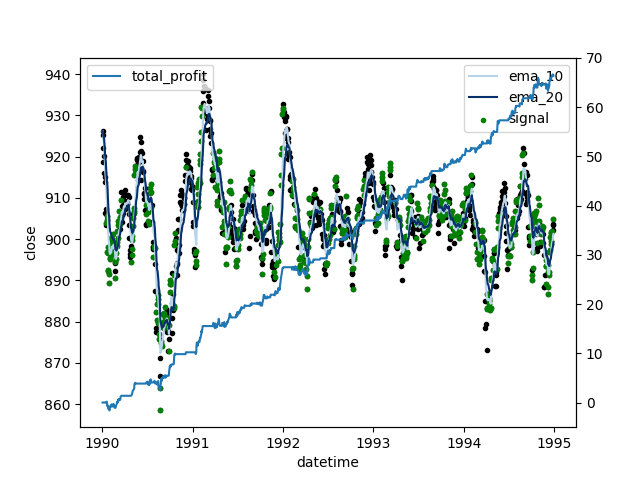
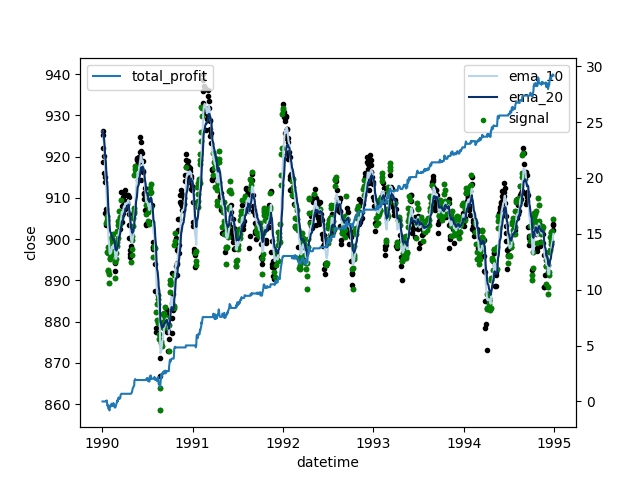
scalp strategy

diff --git a/ms/strategy.py b/ms/strategy.py
@@ -11,12 +11,12 @@ class Strategy:
         
 
 
-    def optimize(self, method='nelder-mead', dim=1, options=None, stop_ratio=0.01, N=10, search_span=5):
+    def optimize(self, method='nelder-mead', dim=1, options=None, stop_ratio=0.01, N=10, search_span=20):
         if options is None:
             options = {'maxiter': 1000, 'maxfev': 2000}
 
         def f(params):
-            return -self.calculate_profit(self.strategy(params=params))
+            return -self.calculate_profit_scalp(self.strategy(params=params))
 
         
         best_best_result=None
@@ -32,8 +32,8 @@ class Strategy:
                 print("params:", res.x)
                 print("profit:", -res.fun)
             
-            print(" best params:", best_res.x)
-            print(" best profit:", -best_res.fun)
+            print("    best params:", best_res.x)
+            print("    best profit:", -best_res.fun)
             
             if best_best_result is None: # is the best result is None set current best result as the best result 
                 best_best_result=best_res
@@ -55,12 +55,15 @@ class Strategy:
         if save:
             for key,value in kwargs.items():
                 self.data.df.at[index, key] = value
+
+
     def __save_prep(self,save  ):
         if save:
             self.data.df[f'total_profit']=0
             self.data.df[f'position']=''
             self.data.df[f'shares']=0
             self.data.df[f'capital']=0
+        
 
         
     def calculate_profit(self,sig,price_ser=None,save  = False ):
@@ -84,12 +87,137 @@ class Strategy:
             if signal == 0 and shares > 0:
                 capital = shares * price
                 shares = 0
-                self.__save(i,save,price=price,position=f'LONG',shares=shares,capital=capital)
+                self.__save(i,save,price=price,position=f'SHORT',shares=shares,capital=capital)
                     
             current_value=capital if shares==0 else shares*price
             if current_value<0:
                 print('error')
 
+            self.__save(i,save,total_profit=current_value-initial_capital)
+            
+        return current_value-initial_capital
+
+
+    def calculate_profit_scalp(self, sig, price_ser=None, save=False, scalp_ratio=0.5):
+        """
+        Calculate profit based on scalping strategy.
+
+        Parameters:
+        - sig: pandas Series with signals (1 for LONG, 0 for SHORT)
+        - price_ser: pandas Series with price data (defaults to 'close' prices)
+        - save: bool, whether to save transaction details
+        - scalp_ratio: float, fraction of capital to use per trade (e.g., 0.1 for 10%)
+
+        Returns:
+        - total_profit: float, total profit/loss from the strategy
+        """
+        self.__save_prep(save)  # Prepare data if save is True
+        initial_capital = 100.0
+        capital = initial_capital
+        total_profit=0
+        shares = 0
+        position = 'NONE'  # Possible values: 'LONG', 'SHORT', 'NONE'
+
+        if price_ser is None:
+            price_ser = self.data.df['close']
+
+        for i, signal in sig.items():
+            # Calculate scalp as a fraction of current capital
+            scalp = scalp_ratio * capital
+            scalp = min(scalp, capital,initial_capital)  # Ensure scalp does not exceed capital
+
+            price = price_ser[i]
+
+            # Debugging Statements (Can be uncommented for detailed tracing)
+            # print(f"Date: {i}, Signal: {signal}, Price: {price}")
+            # print(f"Current Position: {position}, Shares: {shares}, Capital: {capital}, Scalp: {scalp}")
+
+            # Skip if the signal is the same as the current position
+            if signal == 1 and position == 'LONG':
+                self.__save(i, save, price=price, position='NONE', shares=shares, capital=capital, position_size=0,total_profit=total_profit)
+
+            if signal == 0 and position == 'SHORT':
+                  # Already in SHORT, skip
+                self.__save(i, save, price=price, position='NONE', shares=shares, capital=capital, position_size=0,total_profit=total_profit)
+
+            # Enter LONG Position
+            if signal == 1 and position != 'LONG':
+                position = 'LONG'
+                shares = scalp / price if price != 0 else 0  # Avoid division by zero
+                invested_amount = shares * price
+                capital -= invested_amount  # Deduct the invested capital
+                self.__save(i, save, price=price, position='LONG', shares=shares, capital=capital, position_size=invested_amount)
+                # print(f"Entered LONG: Shares={shares}, Invested={invested_amount}, Capital={capital}")
+
+            # Exit LONG Position and Enter SHORT Position
+            elif signal == 0 and position == 'LONG' and shares > 0:
+                proceeds = shares * price
+                capital += proceeds  # Add the proceeds from selling shares
+                self.__save(i, save, price=price, position='SHORT', shares=0, capital=capital, position_size=proceeds)
+                shares = 0
+                position = 'SHORT'
+                # print(f"Exited LONG and Entered SHORT: Proceeds={proceeds}, Capital={capital}")
+
+            # Calculate Current Value
+            current_value = capital + (shares * price)
+
+            # Error Handling
+            if current_value < 0:
+                print(f'Error: Negative portfolio value on {i}. Current Value: {current_value}')
+                # Optionally, raise an exception or handle it accordingly
+                # raise ValueError(f'Negative portfolio value on {i}')
+
+            # Save Total Profit
+            self.__save(i, save, total_profit=current_value - initial_capital)
+            total_profit=current_value - initial_capital
+
+        # Final Portfolio Valuation
+        final_price = price_ser.iloc[-1]
+        final_current_value = capital + (shares * final_price)
+        total_profit = final_current_value - initial_capital
+        return total_profit
+
+
+    def old_calculate_profit_scalp(self,sig,price_ser=None,save  = False ):
+        self.__save_prep(save) # if save passed prepare self.data.df for saving data 
+        initial_capital,shares = 100.0,0
+        capital=initial_capital
+
+        if price_ser is None:
+            price_ser=self.data.df['close']
+            
+        position='SHORT'
+        scalp=initial_capital 
+        for i, row in sig.items():
+            scalp  = min(scalp, capital )
+            
+            signal = sig[i]
+            price =price_ser[i]
+            
+            
+            if signal == 1 and position == 'LONG':
+                continue  # Already in LONG, skip
+            if signal == 0 and position == 'SHORT':
+                continue  # Already in SHORT, skip
+            # Buy
+            if signal == 1 and position =='SHORT':
+                position='LONG'
+                shares = scalp  / price 
+                capital = capital-scalp 
+                self.__save(i,save,price=price,position=f'LONG',shares=shares,capital=capital,position_size=scalp)
+
+            # Sell
+            if signal == 0 and shares > 0 and position=='LONG':
+                position='SHORT'
+                _ = shares * price
+                shares = 0
+                capital = capital + _
+                
+                self.__save(i,save,price=price,position=f'SHORT',shares=shares,capital=capital,position_size=_)
+                    
+            current_value=capital if shares==0 else shares*price
+            if current_value<0:
+                print('error')
 
             self.__save(i,save,total_profit=current_value-initial_capital)
             

diff --git a/main.py b/main.py
@@ -5,6 +5,7 @@ import ms.data
 import ms.strategy
 import pandas as pd 
 from matplotlib import pyplot as plt
+from tabulate import tabulate
 
 #d=ms.Downloader()
 #d.download_historical_data()
@@ -26,10 +27,18 @@ comparison_date = pd.to_datetime('1995-01-01').tz_localize('UTC')
 
 s=ms.strategy.Strategy(d)
 s.ema_strategy(ema1='ema_10',ema2='ema_20',sign='<')
-sig =s.strategy(params=[-2.94403494])
+sig =s.strategy(params=[-2.94403494])  # -5.674305 -2.94403494
 d.df['signal']=sig
-#profit=s.calculate_profit_all_in(signal_column='sig')
-profit2=s.calculate_profit(sig,save=True)
+profit2=s.calculate_profit_scalp(sig,save=True)
+#profit2=s.calculate_profit(sig,save=True)
+print(profit2)
+exit(1)
+cols=['datetime','close','position','total_profit','shares','position_size','capital']
+N=100
+msk=d.df['position']!='NONE'
+print(tabulate(s.data.df[msk][cols].iloc[:N] , headers='keys', tablefmt='pretty'))
+
+
 #print(profit,profit2)
 s.optimize()
 #s.optimize()
